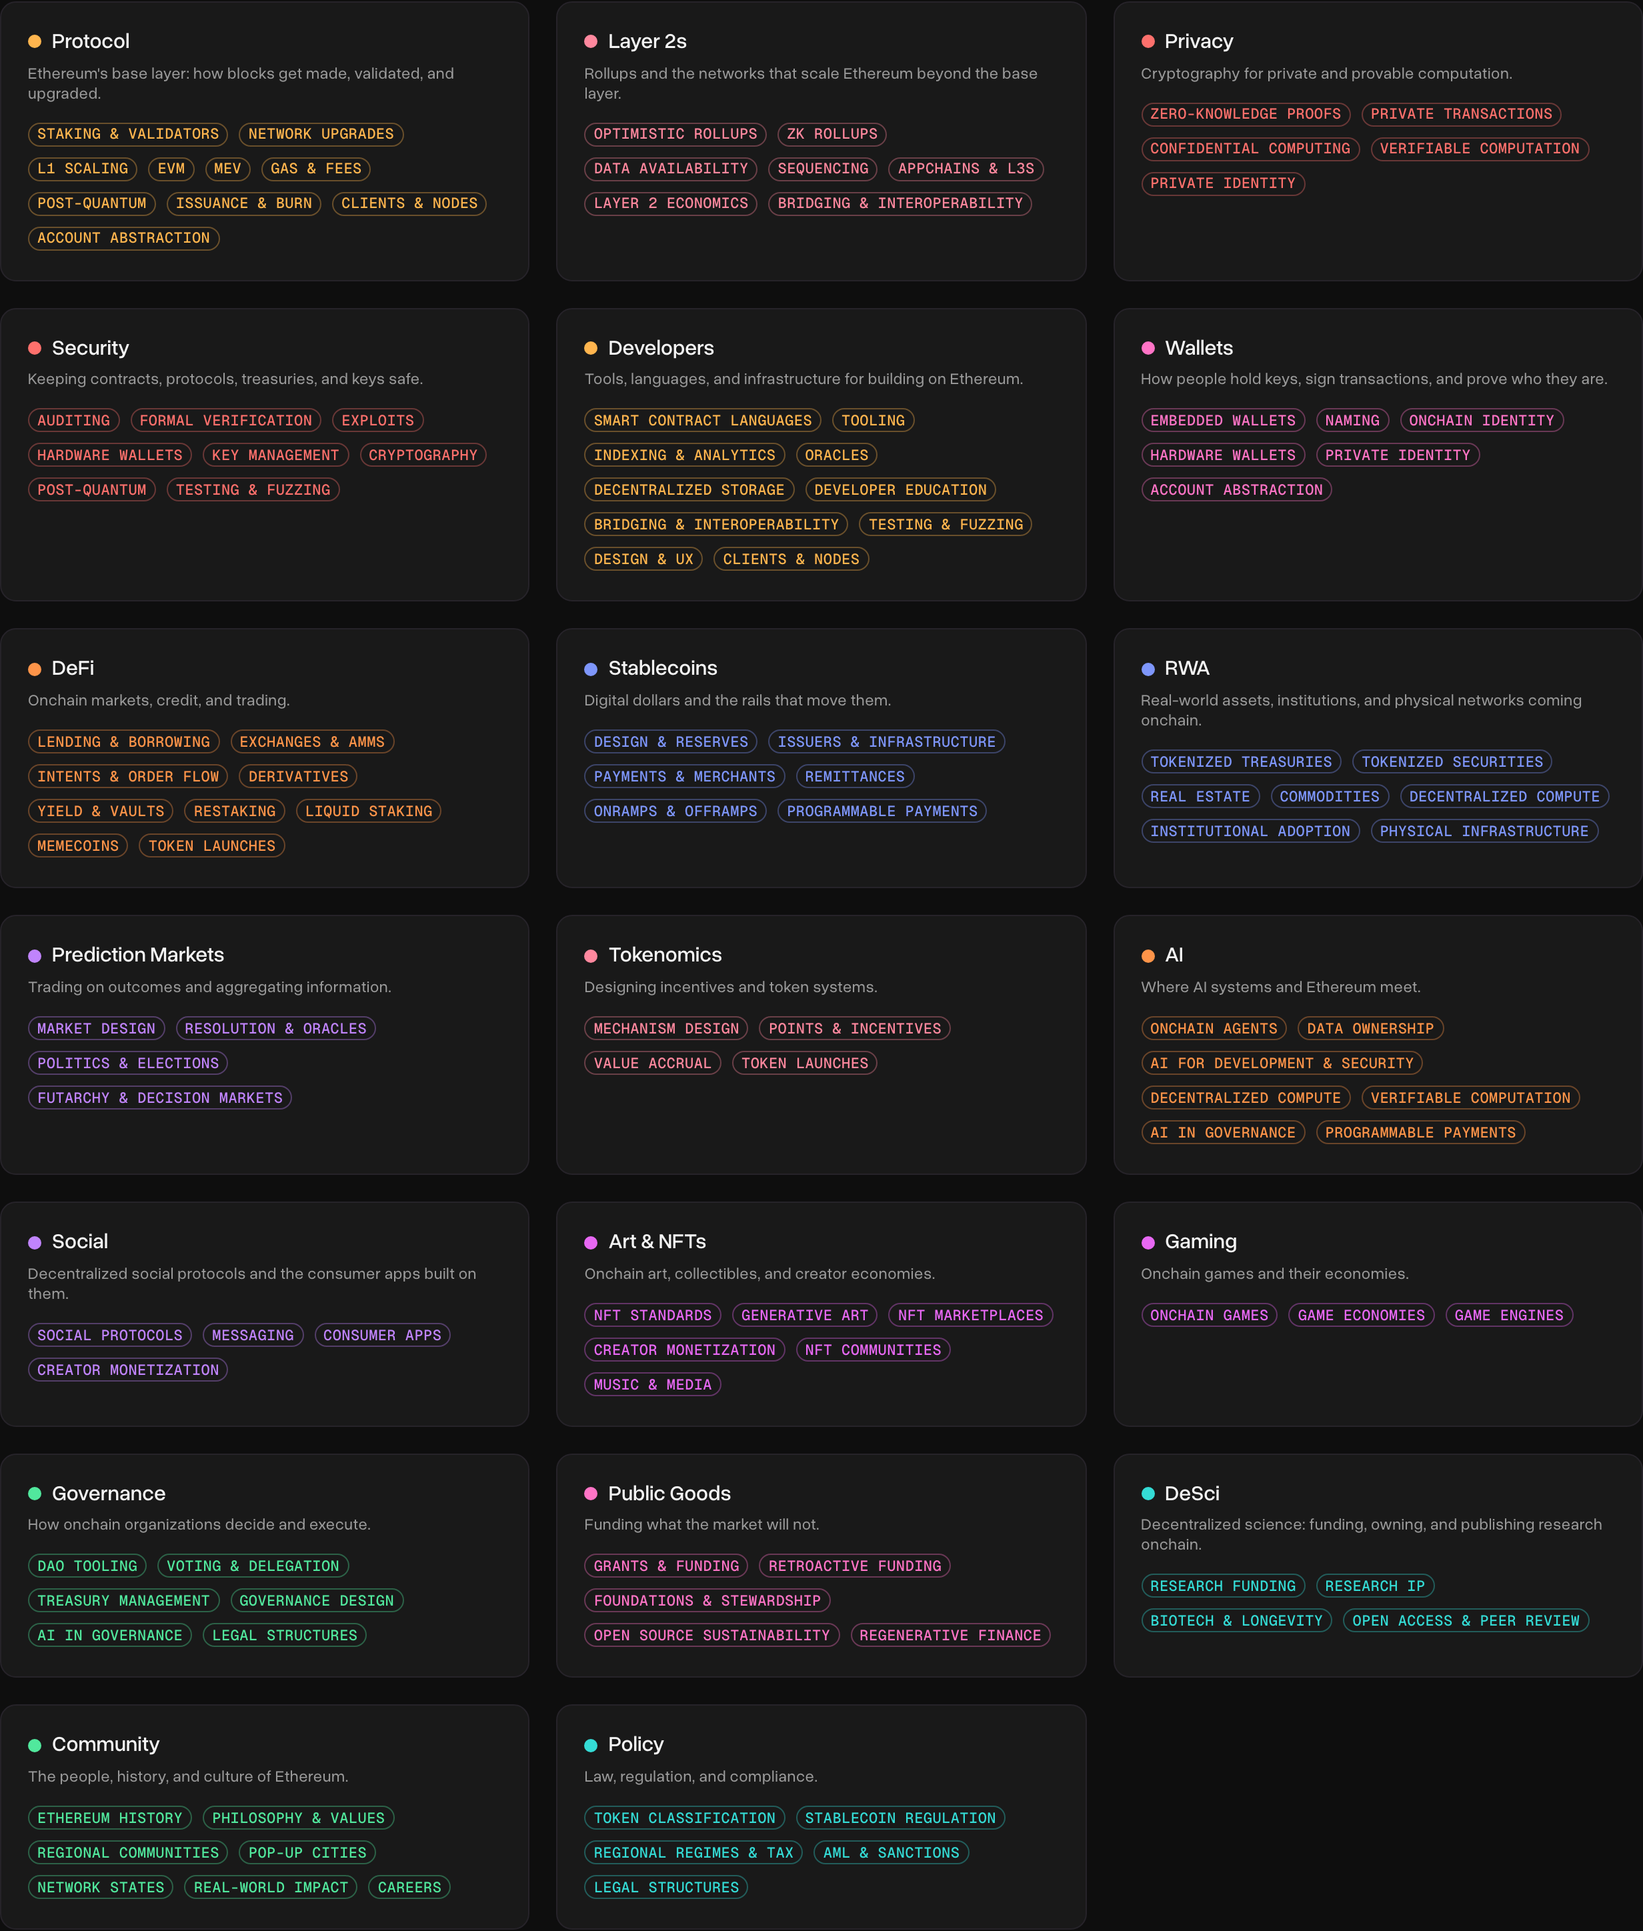
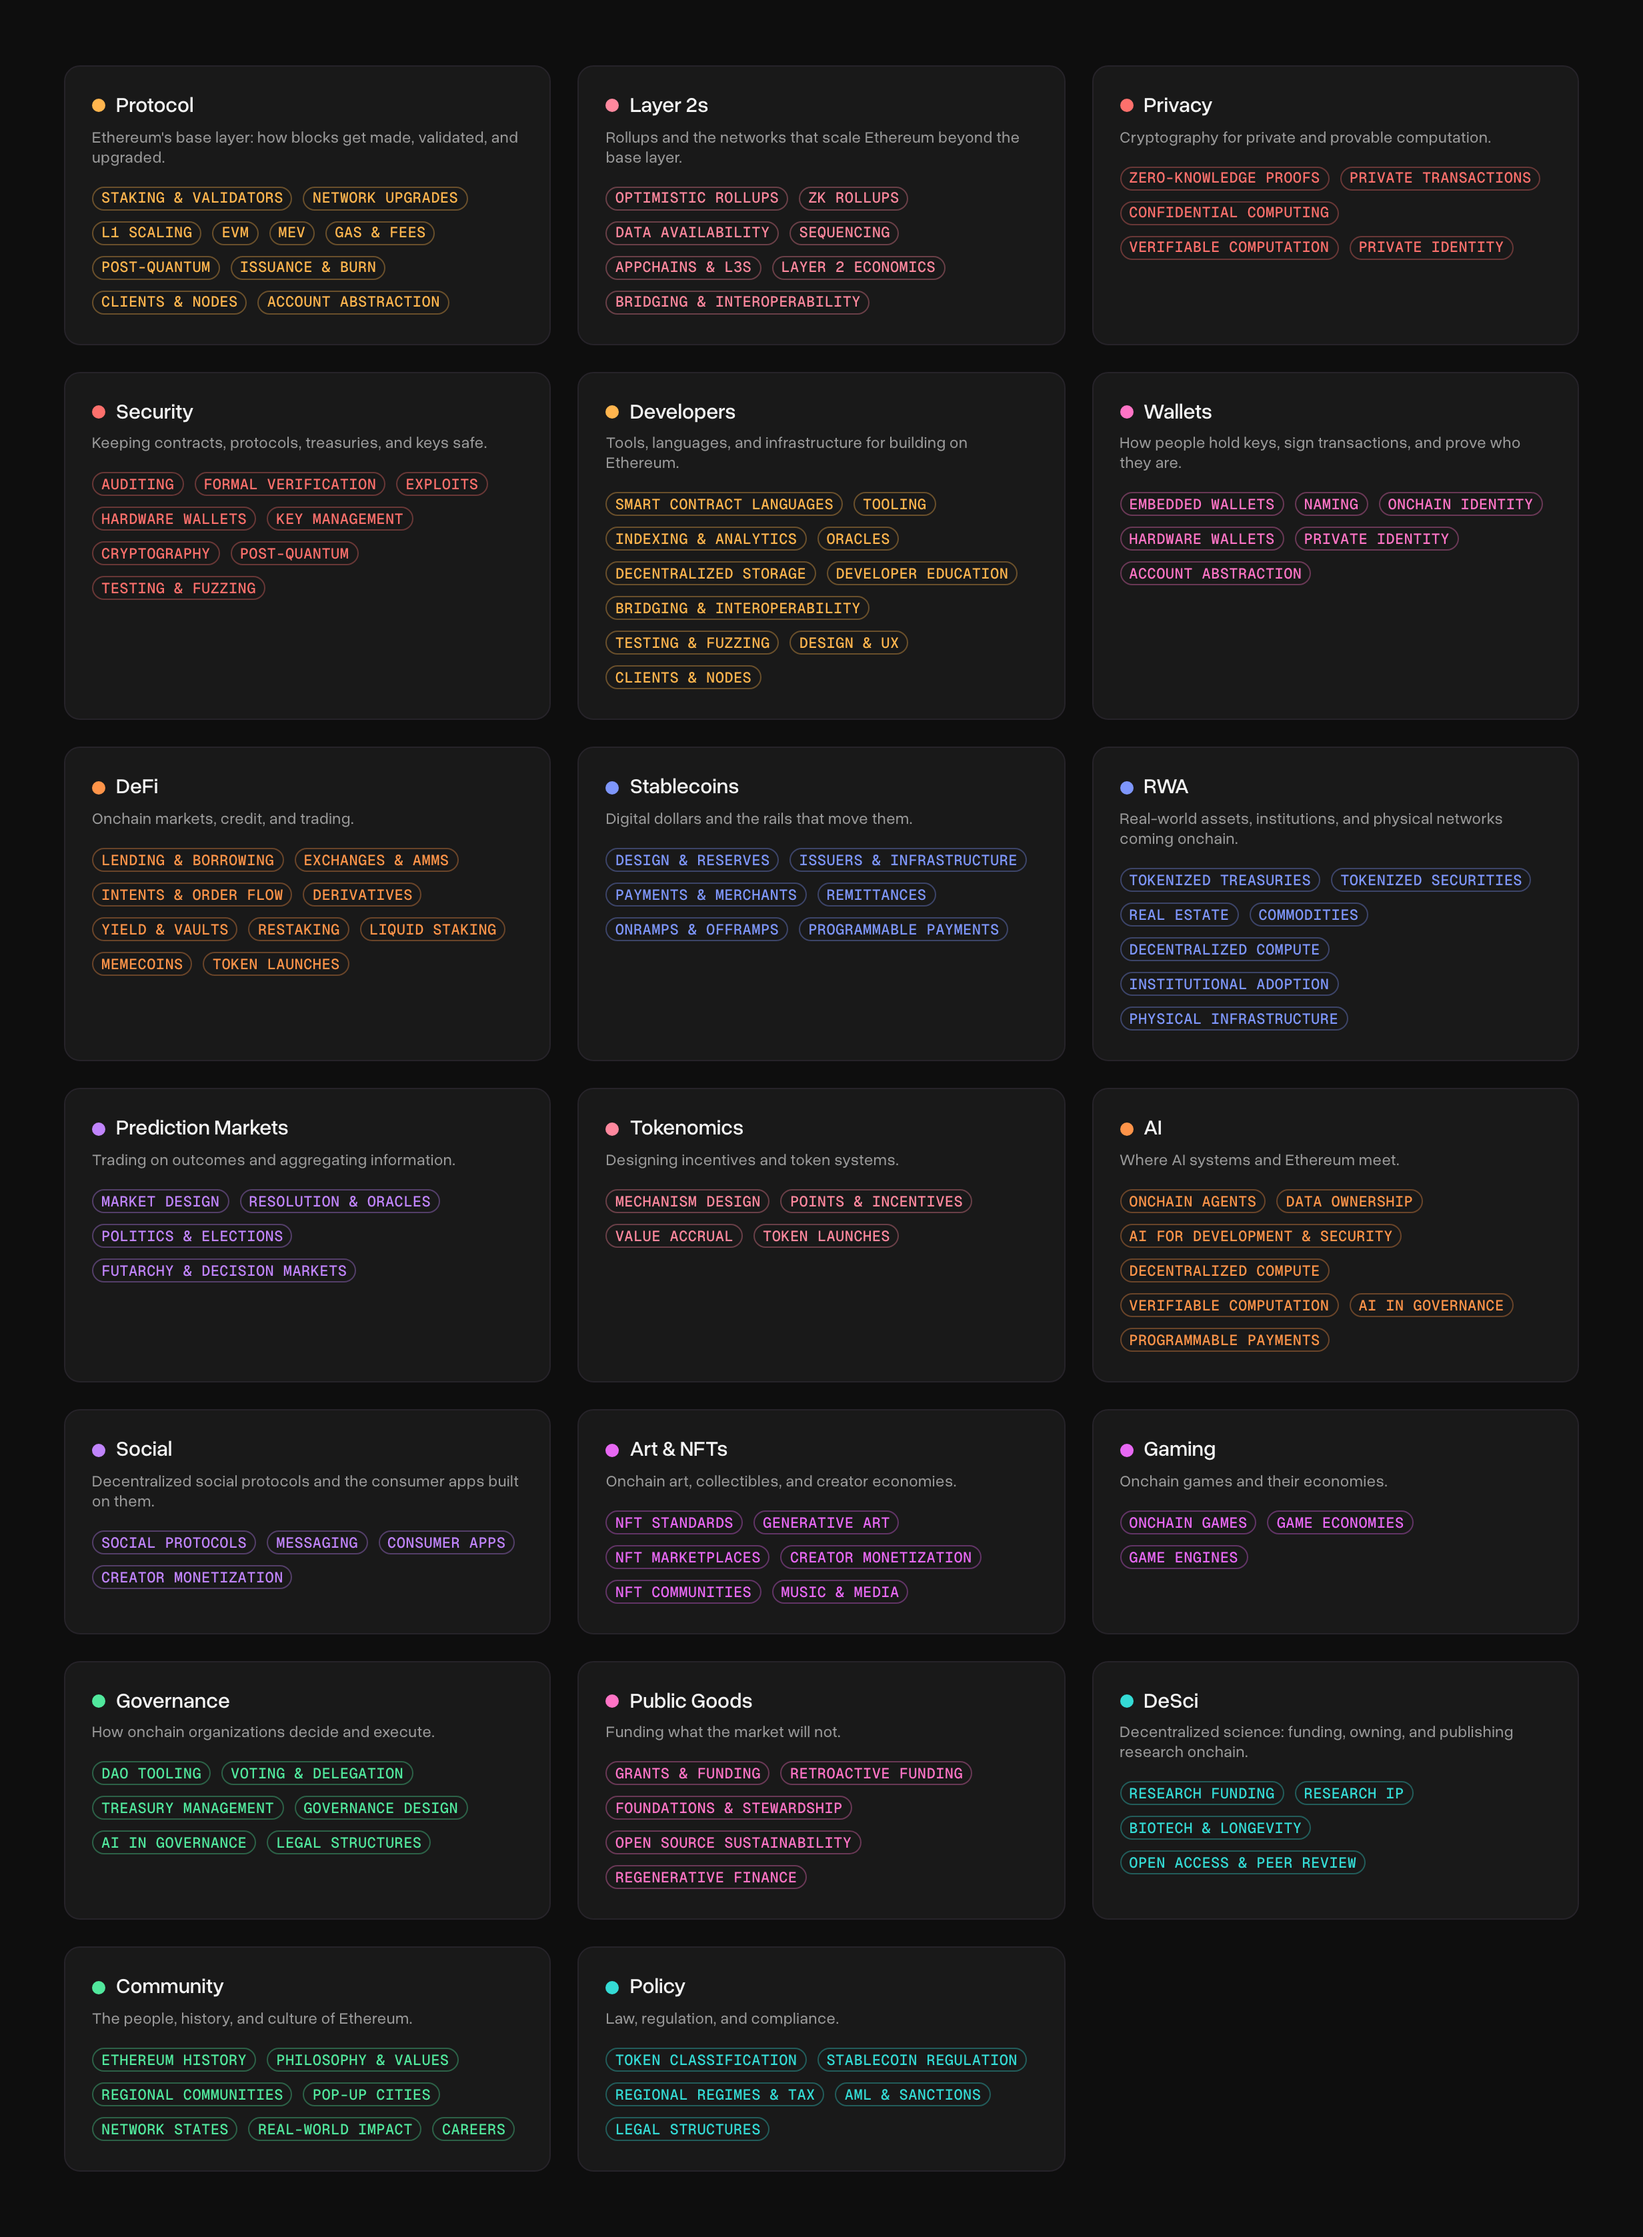
Map image: margins, plus a light-theme version
Both captures carry 48px of breathing room; the README now serves the
matching theme via a picture element.

diff --git a/README.md b/README.md
@@ -12,7 +12,10 @@ We are publishing it because a shared way to categorize Ethereum content is usef
 - **[data/aliases.json](data/aliases.json)**: search synonyms that resolve to canonical nodes
 - **[CHANGELOG.md](CHANGELOG.md)**: versions
 
-![The full Ethereum TV taxonomy: 20 topic cards with their subtopics as colored pills, as rendered on ethereumtv.co/taxonomy](media/taxonomy-map.png)
+<picture>
+  <source media="(prefers-color-scheme: dark)" srcset="media/taxonomy-map.png">
+  <img alt="The full Ethereum TV taxonomy: 20 topic cards with their subtopics as colored pills, as rendered on ethereumtv.co/taxonomy" src="media/taxonomy-map-light.png">
+</picture>
 
 ## The shape of the map
 
